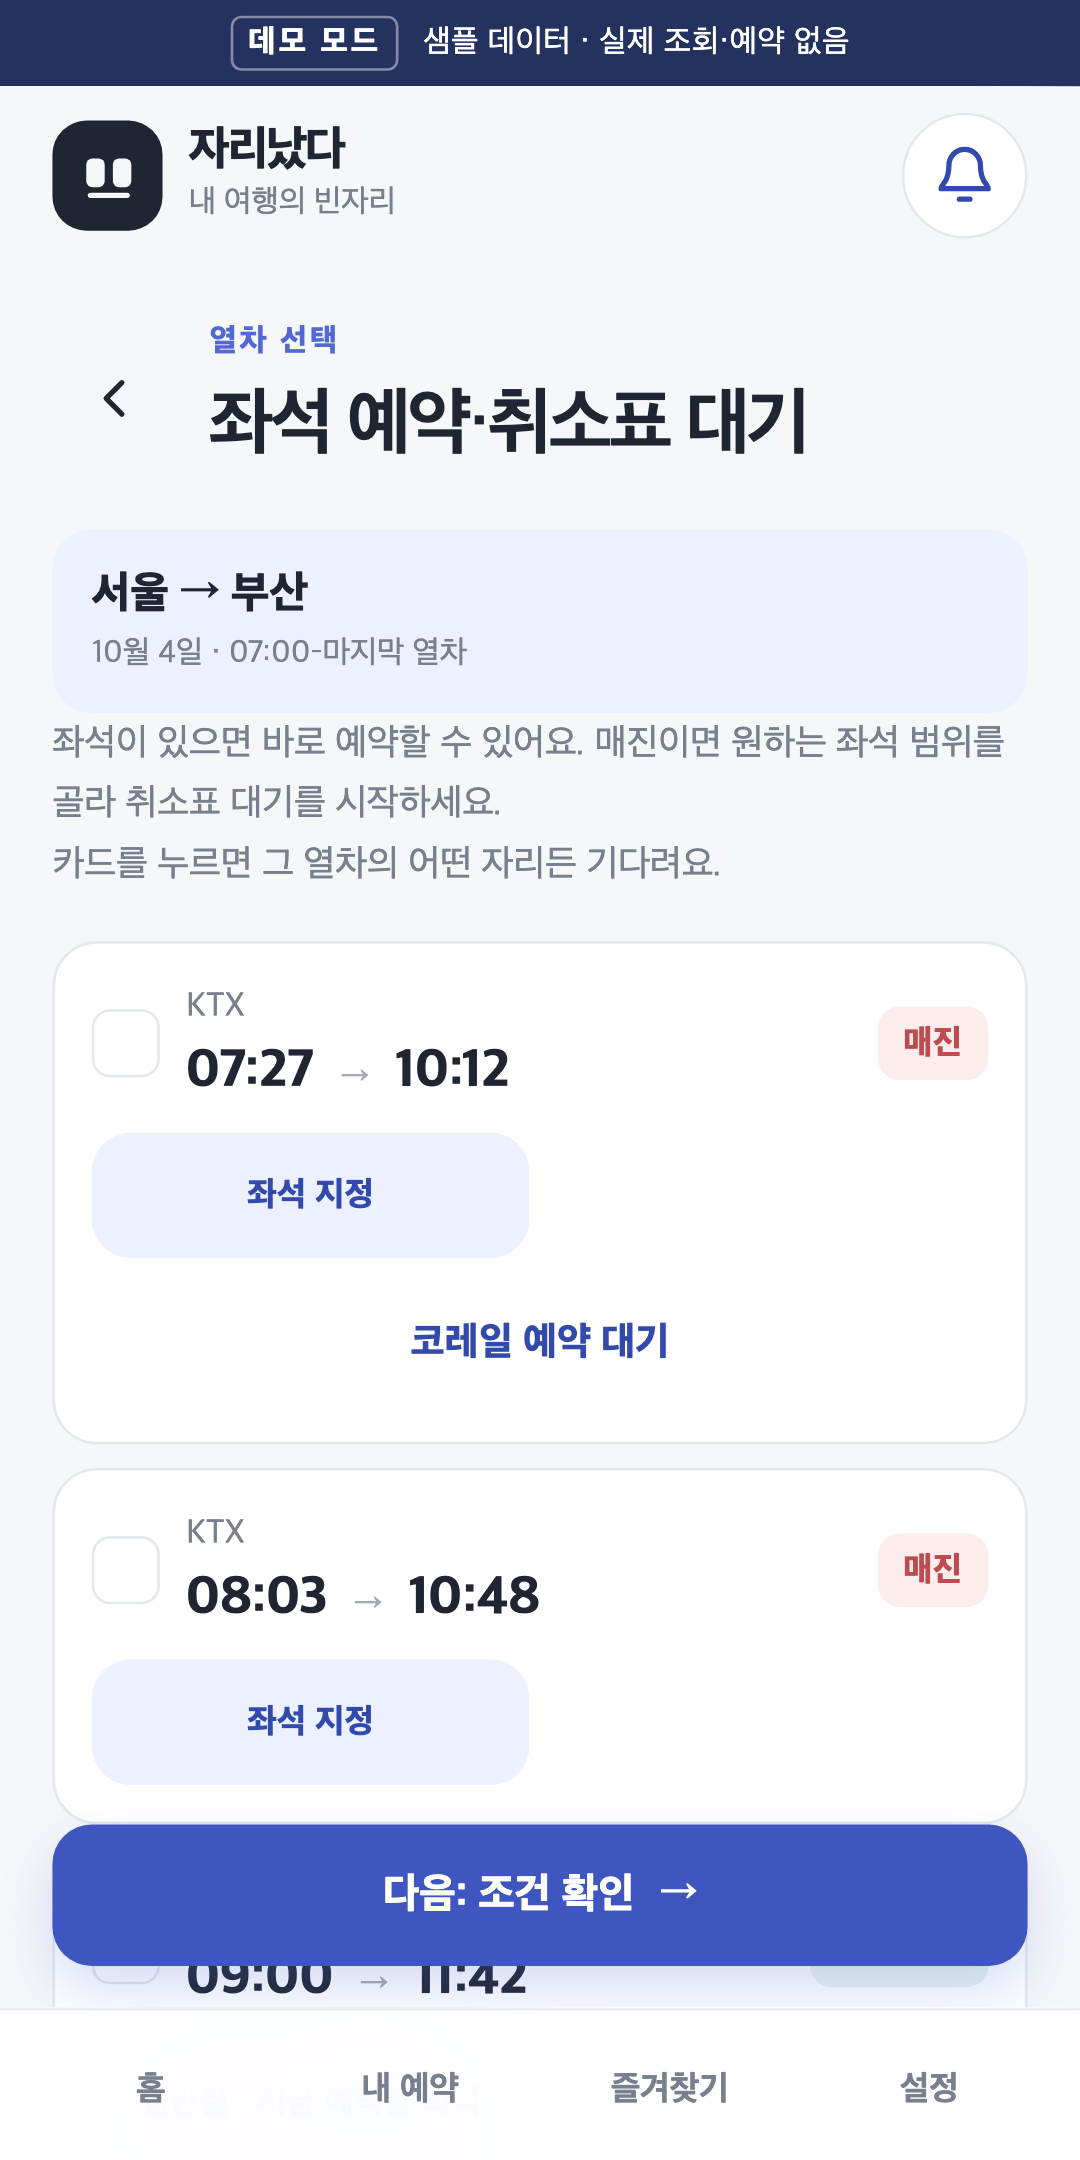
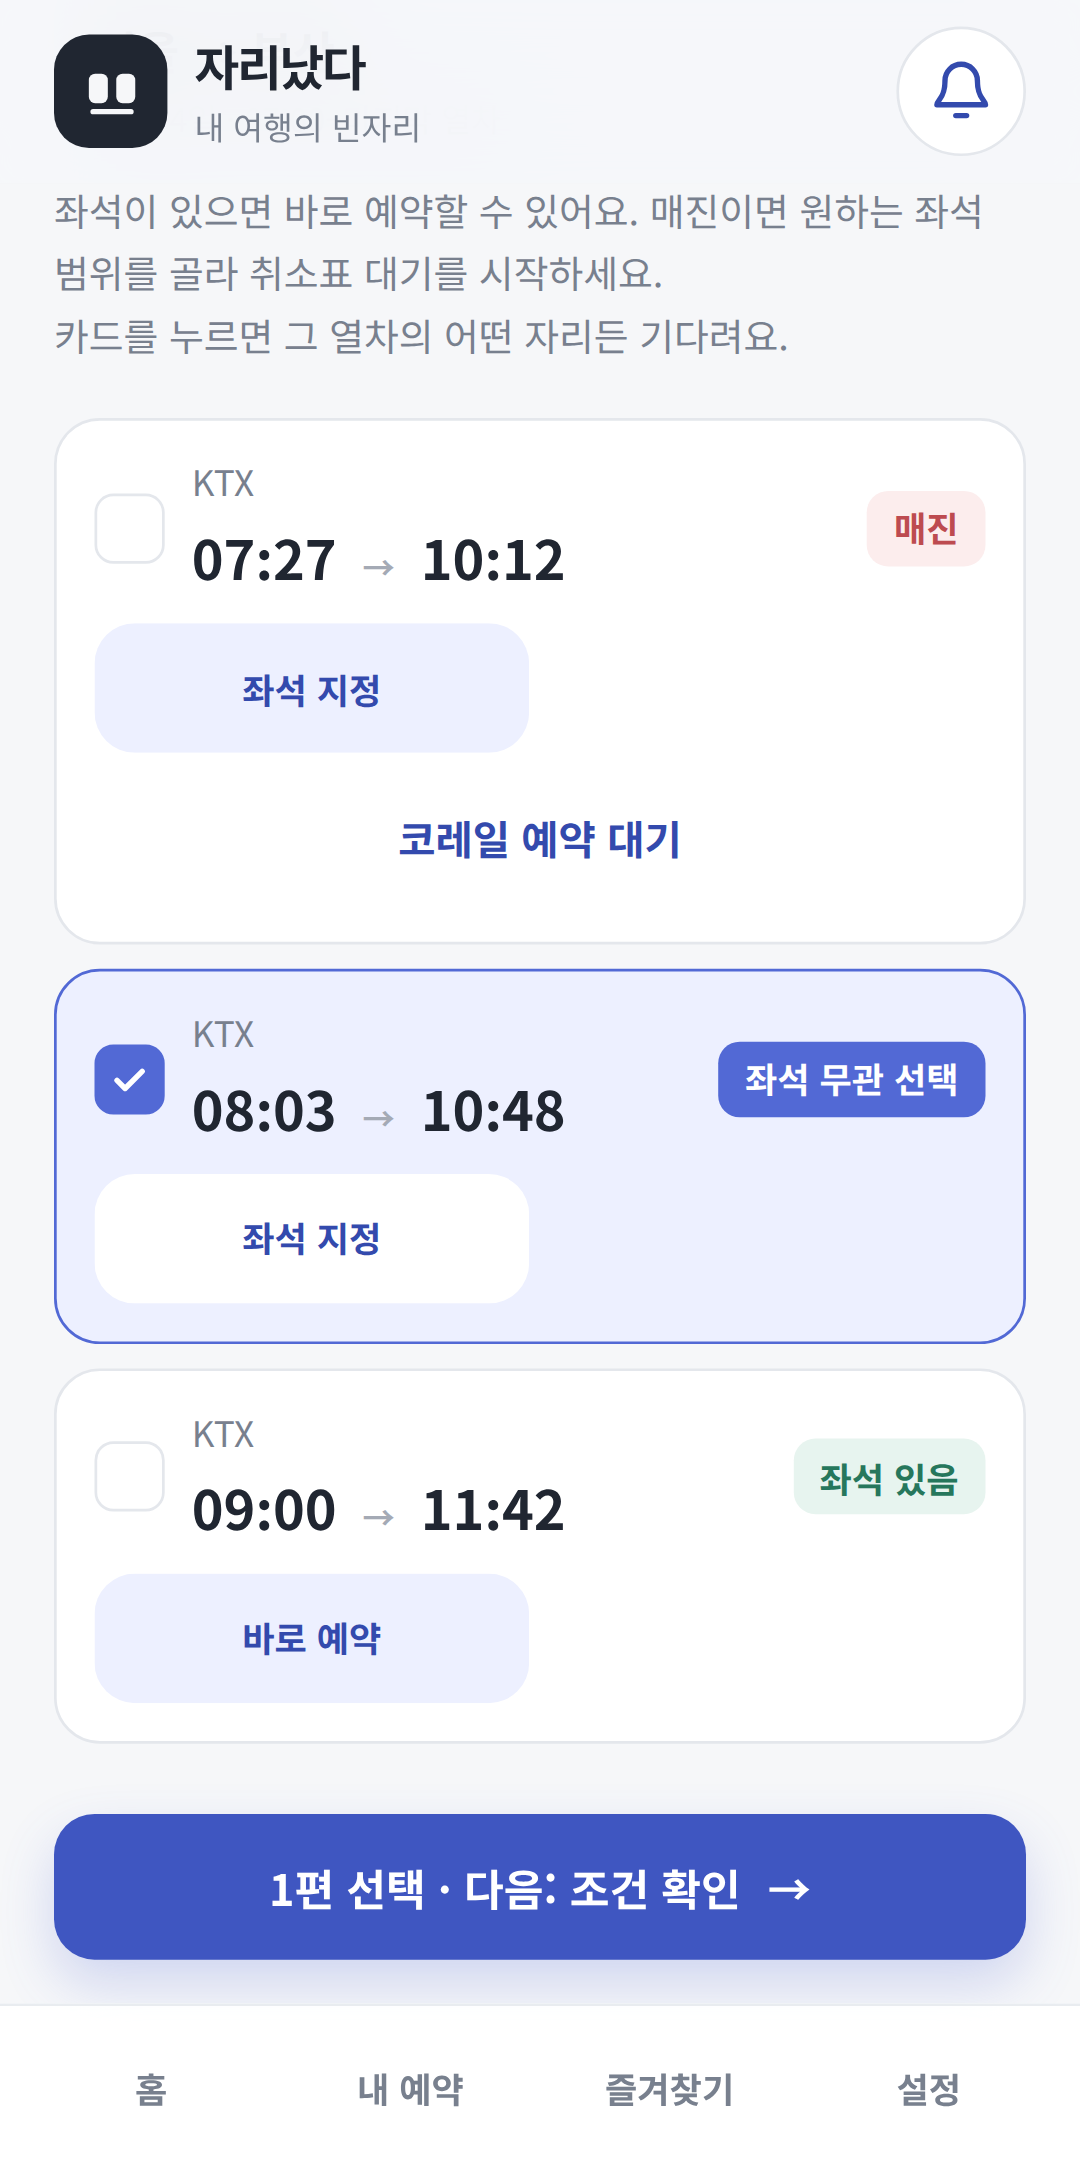
스토어·README 스크린숏을 4.13.5 화면으로 다시 찍고 찍는 스크립트를 더한다
store/screenshots 는 4.13.0 무렵 손으로 찍은 것이라 좌석 범위 시트가 예전 배치였고, 열차 목록은 맨 위에서 찍어 세 번째 카드가 떠 있는 "다음" 버튼과 반투명 탭 바 사이로 잘려 비쳤다.

scripts/render-screenshots.mjs 가 데모 개발 서버를 띄워 Playwright 로 눌러 가며 네 장(홈, 내 예약, 열차 목록, 좌석표)을 1080×2160 으로 찍는다. 시계는 그날 오전 10:30(한국 시간)으로 고정해 찍은 시각이 화면에 남지 않게 하고, 열차 목록은 안내 문장이 머리말 바로 아래에 오도록 내려 마지막 카드가 버튼 위에서 끝나게 찍는다(가리면 멈춘다). 좌석표는 취소표를 기다릴 좌석 둘을 고른 상태로 찍는다.

Claude-Session: https://claude.ai/code/session_01DSwcTAqk1gGwL6vZkNLJwY

diff --git a/docs/SPEC.md b/docs/SPEC.md
@@ -161,7 +161,7 @@ seatPlanSummary: "015 일반실 3호차 5A·5B · 019 좌석 무관" | ""
 - `minSdk` 24. Play 자동 보호가 최소 SDK 23 번들을 거부해서 4.13.3부터 Android 7.0 미만에는 설치되지 않는다. `compileSdk`·`targetSdk` 36(Play는 2026-08-31부터 새 앱·업데이트에 API 36을 요구), AGP 8.9.3(API 36을 지원하는 첫 줄), Gradle 8.11.1, JDK 21. Android 16에서 바뀐 것: 가장자리까지 그리기를 끌 수 없다 — 앱은 이미 `env(safe-area-inset-*)`로 그리고 끄는 설정(`windowOptOutEdgeToEdgeEnforcement`)을 쓰지 않는다. 예측 뒤로가기가 기본으로 켜져 `onBackPressed`가 불리지 않는다 — `@capacitor/app`은 `OnBackPressedDispatcher` 콜백으로 받으므로 `backButton` 리스너(`platform.ts`)가 그대로 온다(`e2e/device.spec.ts`). 600dp 이상 화면에서는 `screenOrientation="sensorPortrait"`가 무시된다(태블릿·폴드 펼침은 가로로도 돈다). 받아들인다: 대상은 친구들의 폰이고, 화면은 이미 최대 520px 폭 가운데 정렬이라 가로에서도 한 열로 그려진다. 가로 레이아웃 e2e 프로젝트는 두지 않았다.
 - 광고·분석 없음(Play에 "광고 없음·광고 ID 쓰지 않음·분석 없음"으로 신고): 매니페스트가 `com.google.android.gms.permission.AD_ID`를 `tools:node="remove"`로 빼고, `firebase-analytics`·`play-services-measurement`·`play-services-ads*`는 의존성에 없다(`firebase-messaging`이 끌어오는 것은 인터페이스뿐인 `firebase-measurement-connector`). `release-play.sh`가 둘 다 확인한다.
 - 앱 안의 개인정보 링크(Play 요구): 설정 → 개인정보와 로그인 화면 아래에 "개인정보처리방침"(`https://jari.thsvkd.dev/privacy`)·"계정·데이터 삭제 안내"(`/delete-account`). 체험 중에도 보인다. 보통의 `<a target="_blank">`이고, Capacitor가 앱 밖 주소로 가는 이동을 가로채 `ACTION_VIEW`로 시스템 브라우저에 넘긴다(`e2e/device.spec.ts`가 앞 화면이 앱이 아니게 되는지 본다).
-- 아이콘: 앱 안의 로고(홈 왼쪽 위 `brand-mark`, 짙은 둥근 네모 속 좌석 둘과 바닥선)를 모든 곳에 쓴다. `node scripts/render-icons.mjs`가 Playwright(Chromium)로 적응형 아이콘(벡터 앞면·바탕색 `#202631`·Android 13+ 한 색 레이어), 옛 런처용 `mipmap-*/ic_launcher{,_round}.png`, 런치 화면 `drawable*/splash.png`, `public/icon.svg`, Play 그림 `store/icon-512.png`(32비트)·`store/feature-graphic.png`(1024×500, 알파 없음)을 만든다. 스토어 스크린숏(데모 모드, 1080×2160)은 `store/screenshots/`.
+- 아이콘: 앱 안의 로고(홈 왼쪽 위 `brand-mark`, 짙은 둥근 네모 속 좌석 둘과 바닥선)를 모든 곳에 쓴다. `node scripts/render-icons.mjs`가 Playwright(Chromium)로 적응형 아이콘(벡터 앞면·바탕색 `#202631`·Android 13+ 한 색 레이어), 옛 런처용 `mipmap-*/ic_launcher{,_round}.png`, 런치 화면 `drawable*/splash.png`, `public/icon.svg`, Play 그림 `store/icon-512.png`(32비트)·`store/feature-graphic.png`(1024×500, 알파 없음)을 만든다. 스토어 스크린숏(데모 모드, 1080×2160, README에도 쓴다)은 `node scripts/render-screenshots.mjs`가 데모 개발 서버를 띄워 Playwright로 눌러 가며 `store/screenshots/`에 찍는다(시계는 그날 오전 10:30 한국 시간으로 고정, 열차 목록은 마지막 카드가 하단 버튼에 가리지 않는 위치로 내려 찍는다).
 - **Play(내부 테스트)**: `scripts/release-play.sh` → `dist-release/jari-<버전>-play.aab`. `bundleRelease`(디버그 불가 → Capacitor가 WebView 디버깅을 켜지 않는다), 운영 API 주소, 업로드 키(Doppler `JARI_ANDROID_RELEASE_*`)로 서명. Doppler `JARI_ANDROID_GOOGLE_SERVICES_B64`를 빌드 동안만 `android/app/google-services.json`으로 풀고 끝나면 지운다. 없거나 `applicationId`의 클라이언트가 없으면 멈춘다. Gradle은 데몬 없이 돌고, 업로드 키 비밀번호는 export 하지 않고 keytool과 Gradle 명령의 환경으로만 넘긴다(npm·npx에 가지 않고, 비밀번호를 든 프로세스가 남지 않게). 웹 번들은 `VITE_DEMO_MODE=false`로 만들어 로컬 `.env.local`이 데모로 바꾸지 못하게 하고, 번들이 데모 빌드면(`get("demo")==="1"||!0`) 멈춘다. 의존성 목록·`capacitor.config.json`을 읽지 못하면 통과가 아니라 실패다. 끝에 서명(`jarsigner -strict`)과 인증서(업로드 키) SHA-256·SHA-1, versionCode/Name, 매니페스트(debuggable 아님·AD_ID 없음·targetSdk는 `variables.gradle`의 값, `JARI_BUNDLETOOL`이 있으면 bundletool로), 광고·분석 의존성 없음, `google_app_id` 포함, 웹 번들의 API 주소를 확인한다. 확인하는 동안은 `*.aab.unchecked`로 두고 모두 통과해야 최종 이름으로 옮기며, 어긋나거나 끊기면 지운다. 올리는 것은 사람이 Play Console에서 한다.
 - **사이드로드**: `scripts/release-android.sh`(디버그 키, `assembleDebug`). 같은 Doppler 시크릿이 있으면 넣어 알림이 켜진 APK를 만든다(없으면 꺼진 채로 알린다). Play에서 받은 앱(Play 앱 서명 키)과 이 APK는 같은 패키지라도 서명이 달라 서로 업데이트되지 않는다: 한 폰에서는 한쪽만 쓰고, 바꿀 때는 지우고 다시 깐다.
 - **휴대폰 알림 경로**: 설정 → 휴대폰 알림(서버 `capabilities.push`가 참일 때만 누를 수 있다) → `initializePlatform({enablePushRegistration: true})` → `SecureSession.pushConfigured()`(google-services 플러그인이 넣은 `google_app_id` 리소스가 있는지) → `PushNotifications.requestPermissions()`(Android 13+ `POST_NOTIFICATIONS` 런타임 권한, 매니페스트에 선언됨. 사용자가 누를 때만 묻는다) → `register()` → FCM 토큰 → `POST /api/mobile/devices`(`{token, platform: "android"}`, 서버는 `MOBILE_SECRET`으로 암호화해 계정당 10대) → 알림이 생기면 outbox → 런타임의 10초 루프 `Notifications.deliver` → firebase-admin(`MOBILE_FCM_CREDENTIALS`, compose의 `firebase_admin` 시크릿 = 서버의 `backend/.secrets/firebase-admin.json`). 앱의 `google-services.json`과 서버의 Admin 키는 **같은 Firebase 프로젝트(`jari-thsvkd`)**여야 한다. 다르면 FCM이 토큰을 거절해(SenderId mismatch) 알림함에는 쌓여도 휴대폰으로는 가지 않고, `deliver`가 재시도하다 멈춘다(10회). 앱 쪽 설정은 Doppler `JARI_ANDROID_GOOGLE_SERVICES_B64`, 서버 쪽 키는 `JARI_FCM_ADMIN_JSON_B64`(둘 다 dev/dev). 서버 키를 바꾸는 것은 배포 스크립트가 하지 않는 수동 단계다: 운영 PC에서 `doppler secrets get JARI_FCM_ADMIN_JSON_B64 --plain --project dev --config dev | base64 --decode | ssh pit5 'umask 077; cat > /home/pi/services/jari-android/backend/.secrets/firebase-admin.json'`, 그 뒤 API를 다시 시작해야 읽는다(firebase-admin은 시작할 때 한 번 읽는다. 검색 확인 후 승인받아 `deploy-backend.sh`로). 4.12.x 이하 앱(`com.jari.app`, `teum-android` 프로젝트)이 등록한 토큰은 새 키로는 보낼 수 없다 — 사용자가 새 앱에서 알림을 다시 켜면 새 토큰이 등록된다. 푸시에는 "새 알림이 왔어요"와 알림 번호만 싣고 내용은 앱 알림함에서 본다. 기기 e2e는 `-PjariNoFirebase`로 빌드해 권한·토큰이 끼지 않는다.

diff --git a/docs/android.md b/docs/android.md
@@ -8,6 +8,7 @@
 - [릴리스](#릴리스)
 - [휴대폰 알림 (Firebase)](#휴대폰-알림-firebase)
 - [앱 보안 설정](#앱-보안-설정)
+- [스토어 그림과 스크린숏](#스토어-그림과-스크린숏)
 - [패키지 이름 변경 이력](#패키지-이름-변경-이력)
 - [Windows에서 빌드하기](#windows에서-빌드하기)
 
@@ -105,6 +106,20 @@ scripts/doppler-store-android-keys.sh release-new                               
 - 릴리스 빌드는 평문 HTTP를 막습니다. 디버그 빌드에만 에뮬레이터 확인용으로 `localhost`·`10.0.2.2`를 허용하는 네트워크 정책이 있습니다.
 - 앱 세션은 `@capacitor/preferences`에 저장하지 않습니다. `SecureSessionPlugin`이 Android Keystore에서 만든 AES-GCM 키로 암호화해 IV와 암호문만 앱 전용 SharedPreferences에 둡니다.
 - 디버그 APK는 WebView 원격 디버깅이 켜져 있습니다. 서명한 릴리스 빌드에는 없습니다.
+
+## 스토어 그림과 스크린숏
+
+Play 스토어와 README에 쓰는 그림은 손으로 그리지 않고 저장소의 Playwright(Chromium)로 만듭니다. 화면이나 로고가 바뀌면 다시 돌려 커밋합니다.
+
+| 명령 | 만드는 것 |
+|---|---|
+| `node scripts/render-icons.mjs` | 앱 아이콘·런치 화면·웹 아이콘, `store/icon-512.png`, `store/feature-graphic.png` |
+| `node scripts/render-screenshots.mjs` | `store/screenshots/` 네 장(홈, 내 예약, 열차 목록, 좌석표). 1080×2160, 데모 모드 |
+
+- 스크린숏 스크립트는 데모 개발 서버를 잠깐 띄워 사용자처럼 눌러 가며 찍습니다. 서버나 코레일에는 닿지 않습니다.
+- 시계를 그날 오전 10:30(한국 시간)으로 고정해 찍은 시각이 화면에 남지 않게 합니다.
+- 글꼴은 그 PC의 한글 글꼴을 씁니다. Linux에서는 CI처럼 `fonts-noto-cjk`를 깔면 Android 기기와 같은 Noto Sans CJK로 나옵니다.
+- Play Console에 올리는 것은 사람이 합니다.
 
 ## 패키지 이름 변경 이력
 
